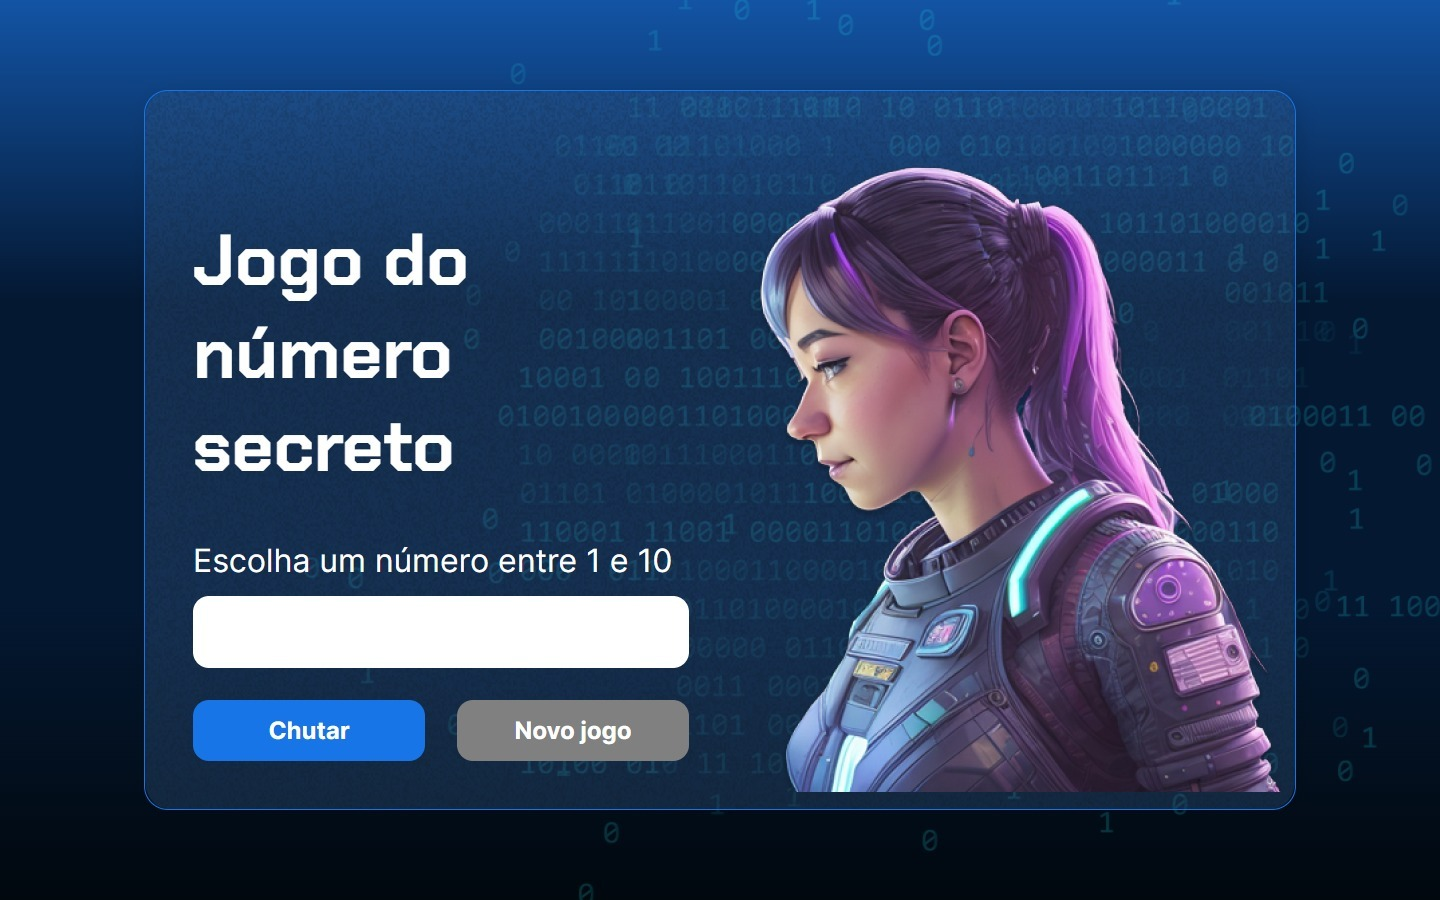
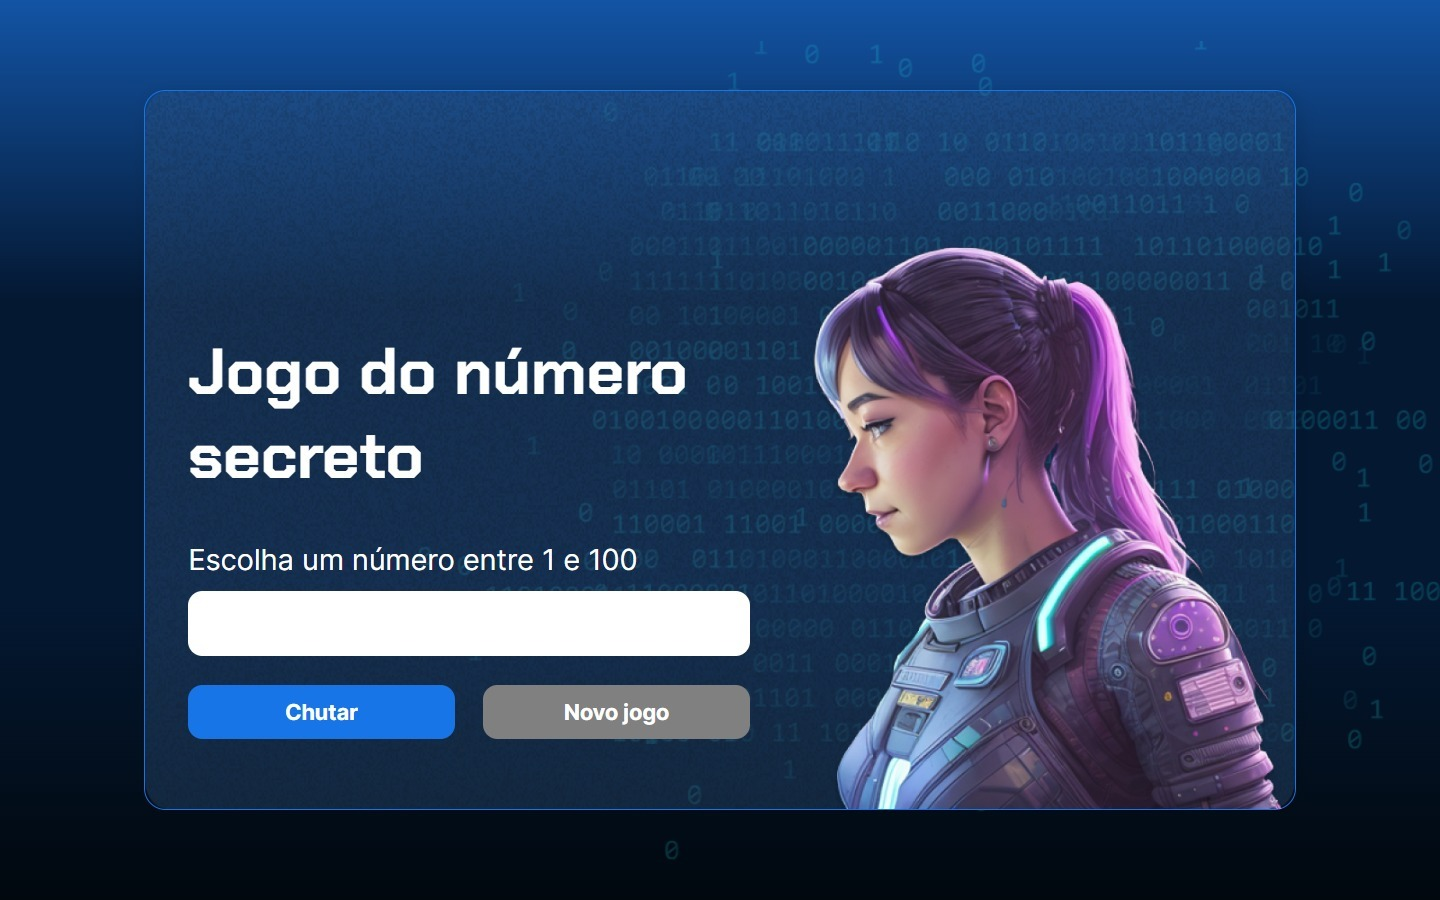
Corrigindo a foto e limite de numeros

diff --git a/app.js b/app.js
@@ -1,5 +1,5 @@
 let listaDeNumetosSorteados = [];
-let numeroLimite = 10;
+let numeroLimite = 100;
 let numeroSecreto = gerarNumeroAleatorio();
 let tentativas = 1;
 
@@ -11,7 +11,7 @@ function exibirTextoNaTela(tag, texto) {
 
 function exibirMensagemInicial() {
     exibirTextoNaTela('h1', 'Jogo do número secreto');
-    exibirTextoNaTela('p', 'Escolha um número entre 1 e 10');
+    exibirTextoNaTela('p', 'Escolha um número entre 1 e 100');
 }
 
 exibirMensagemInicial();

diff --git a/README.md b/README.md
@@ -1,5 +1,5 @@
 # Jogo do Número Secreto 
-Desenvolvi um jogo para tentar adivinhar um número aleatório :)
+Desenvolvi um jogo para tentar adivinhar um número aleatório. O usuário terá que adivinhar um número entre 1 a 100 no menor número de tentativas que conseguir:
 <br> <br>
 <img src="img/jogo-do-numero-secreto.jpg">
 <br> <br>
